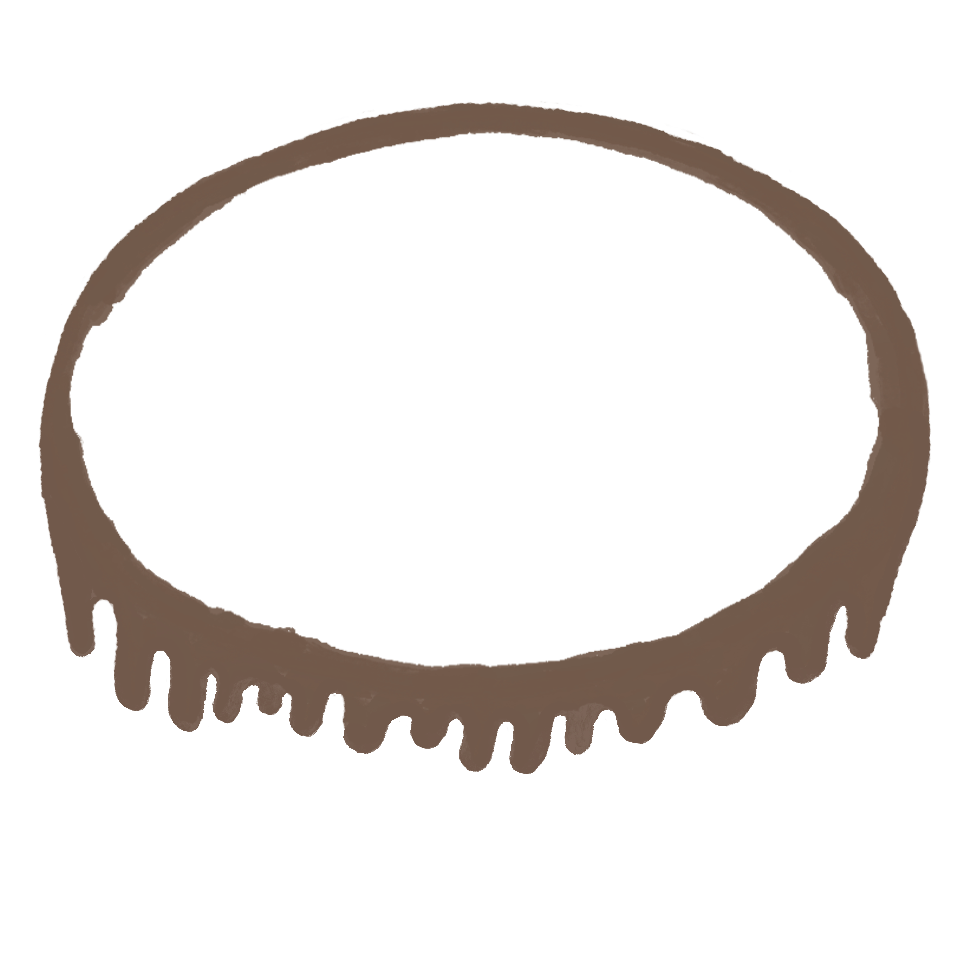
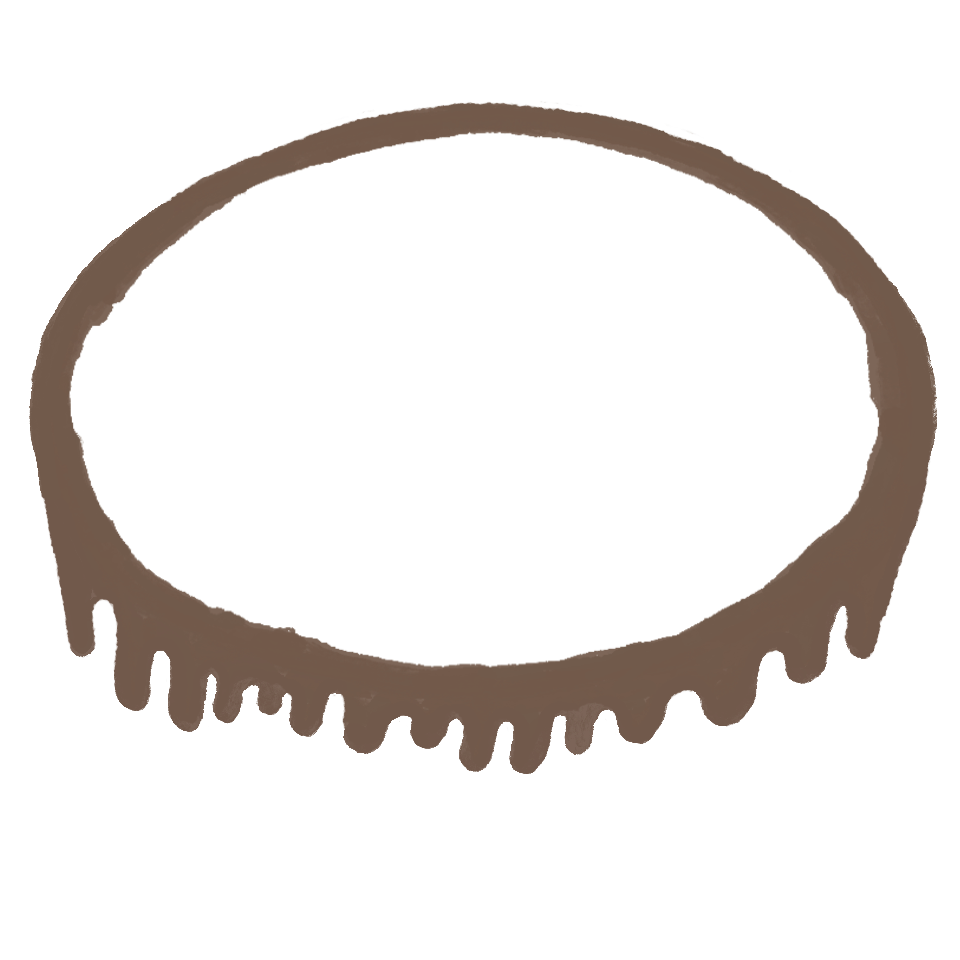
18cm訂正版素材を反映

diff --git a/help/start.html b/help/start.html
@@ -22,7 +22,7 @@
 <li>同意のチェックを入れます。</li>
 <li>**「カード登録なしで始める」**を押します。</li>
 </ol>
-<figure><a href="img/signup.png?v=1789966209dcb479" target="_blank" rel="noopener" aria-label="新規登録：お店の情報を入力する画面を拡大"><img src="img/signup.png?v=1789966209dcb479" alt="新規登録：お店の情報を入力する画面" loading="lazy" width="780" height="1688"></a><figcaption>新規登録：お店の情報を入力する画面 · タップで拡大</figcaption></figure>
+<figure><a href="img/signup.png?v=1789973165dcb479" target="_blank" rel="noopener" aria-label="新規登録：お店の情報を入力する画面を拡大"><img src="img/signup.png?v=1789973165dcb479" alt="新規登録：お店の情報を入力する画面" loading="lazy" width="780" height="1688"></a><figcaption>新規登録：お店の情報を入力する画面 · タップで拡大</figcaption></figure>
 <p>💡 店舗IDは予約ページのアドレスの一部です。後から管理画面で変更する機能はありません。</p>
 <h2 id="section-2">2. カード不要のお試しを始める<a class="anchor" href="#section-2" aria-label="この項目へのリンク">#</a></h2>
 <p>登録が完了すると管理画面へ進み、7日間のお試しが始まります。確認メールが届いた場合は、そのリンクから続けてください。</p>
@@ -30,7 +30,7 @@
 <h2 id="section-3">3. 管理画面の開き方を覚える<a class="anchor" href="#section-3" aria-label="この項目へのリンク">#</a></h2>
 <p><a href="../admin/">管理画面</a>をブックマークしておきます。次回からはメールアドレスとパスワードでログインします。</p>
 <p>スマホでメニューが見えない場合は、右上の **「☰」**を押します。</p>
-<figure><a href="img/menu.png?v=1789966209b3192b9032" target="_blank" rel="noopener" aria-label="スマホの管理メニュー：設定・商品・マニュアルへ進めますを拡大"><img src="img/menu.png?v=1789966209b3192b9032" alt="スマホの管理メニュー：設定・商品・マニュアルへ進めます" loading="lazy" width="780" height="1688"></a><figcaption>スマホの管理メニュー：設定・商品・マニュアルへ進めます · タップで拡大</figcaption></figure>
+<figure><a href="img/menu.png?v=1789973165b3192b9032" target="_blank" rel="noopener" aria-label="スマホの管理メニュー：設定・商品・マニュアルへ進めますを拡大"><img src="img/menu.png?v=1789973165b3192b9032" alt="スマホの管理メニュー：設定・商品・マニュアルへ進めます" loading="lazy" width="780" height="1688"></a><figcaption>スマホの管理メニュー：設定・商品・マニュアルへ進めます · タップで拡大</figcaption></figure>
 <h2 id="section-4">4. 予約を受けるルールを設定する<a class="anchor" href="#section-4" aria-label="この項目へのリンク">#</a></h2>
 <ol>
 <li>メニューの **「設定」**を開きます。</li>
@@ -48,7 +48,7 @@
 <li>「1時間ごと」など、時間の間隔を選びます。</li>
 <li>**「まとめて追加」**を押します。</li>
 </ol>
-<figure><a href="img/slots.png?v=1789966209f0519151" target="_blank" rel="noopener" aria-label="受取時間：時間の範囲を決めて枠を追加するを拡大"><img src="img/slots.png?v=1789966209f0519151" alt="受取時間：時間の範囲を決めて枠を追加する" loading="lazy" width="780" height="1688"></a><figcaption>受取時間：時間の範囲を決めて枠を追加する · タップで拡大</figcaption></figure>
+<figure><a href="img/slots.png?v=1789973165f0519151" target="_blank" rel="noopener" aria-label="受取時間：時間の範囲を決めて枠を追加するを拡大"><img src="img/slots.png?v=1789973165f0519151" alt="受取時間：時間の範囲を決めて枠を追加する" loading="lazy" width="780" height="1688"></a><figcaption>受取時間：時間の範囲を決めて枠を追加する · タップで拡大</figcaption></figure>
 <ol start="12">
 <li>**「お客様への案内とセルフ操作」**に、お店のキャンセルポリシーと特定商取引法に基づく表記を入れます。</li>
 <li>お客様ご自身での変更・キャンセルを使う場合は **「有効にする」**にチェックを入れます。</li>

diff --git a/help/products.html b/help/products.html
@@ -50,7 +50,7 @@
 <li><strong>この商品だけ受け付けない日</strong>：この商品だけ特定の日を休みたいときに日付を追加します。</li>
 </ul>
 <p>💡 定休日にクリスマス営業をしたい（12/24が定休日でも受け取れるようにしたい）場合は、設定ページの「臨時休業・臨時営業」で <strong>「定休日だけど営業」</strong> の日を登録してください（お店全体に効きます）。</p>
-<figure><a href="img/season.png?v=1789966209a0369fcec46" target="_blank" rel="noopener" aria-label="季節商品：受付期間と受取期間を分けて設定しますを拡大"><img src="img/season.png?v=1789966209a0369fcec46" alt="季節商品：受付期間と受取期間を分けて設定します" loading="lazy" width="780" height="1688"></a><figcaption>季節商品：受付期間と受取期間を分けて設定します · タップで拡大</figcaption></figure>
+<figure><a href="img/season.png?v=1789973165a0369fcec46" target="_blank" rel="noopener" aria-label="季節商品：受付期間と受取期間を分けて設定しますを拡大"><img src="img/season.png?v=1789973165a0369fcec46" alt="季節商品：受付期間と受取期間を分けて設定します" loading="lazy" width="780" height="1688"></a><figcaption>季節商品：受付期間と受取期間を分けて設定します · タップで拡大</figcaption></figure>
 <h2 id="section-5">サイズと価格<a class="anchor" href="#section-5" aria-label="この項目へのリンク">#</a></h2>
 <ol>
 <li>サイズ名（例：12cm、4号）と価格（税込）を入れて <strong>「追加」</strong> を押します。</li>
@@ -110,7 +110,7 @@
 <li>必要なら <strong>「必須にする」</strong> にチェックを入れます。</li>
 <li>補足（質問の下に小さく出る一言）は任意です。</li>
 </ol>
-<figure><a href="img/questions.png?v=1789966209e2362629e" target="_blank" rel="noopener" aria-label="共通の質問：質問文と回答のしかたを設定しますを拡大"><img src="img/questions.png?v=1789966209e2362629e" alt="共通の質問：質問文と回答のしかたを設定します" loading="lazy" width="780" height="1688"></a><figcaption>共通の質問：質問文と回答のしかたを設定します · タップで拡大</figcaption></figure>
+<figure><a href="img/questions.png?v=1789973165e2362629e" target="_blank" rel="noopener" aria-label="共通の質問：質問文と回答のしかたを設定しますを拡大"><img src="img/questions.png?v=1789973165e2362629e" alt="共通の質問：質問文と回答のしかたを設定します" loading="lazy" width="780" height="1688"></a><figcaption>共通の質問：質問文と回答のしかたを設定します · タップで拡大</figcaption></figure>
 <h3>見本の画像</h3>
 <p>質問の下に<strong>見本の画像を1枚</strong>出せます（任意）。**「見本の画像」→「写真を選ぶ」**でアップするだけです。</p>
 <ul>

diff --git a/help/faq.html b/help/faq.html
@@ -66,7 +66,7 @@
 <li>メールアプリ側で送信します。</li>
 </ol>
 <p><strong>「依頼内容を確認する」を押しただけでは送信されません。</strong> メールアプリが開かない場合は「本文をコピー」でコピーし、<a href="mailto:info@oyatsupokke.com">info@oyatsupokke.com</a>へ送信してください。ログインできない場合も、このアドレスからお問い合わせできます。</p>
-<figure><a href="img/support.png?v=1789966209c02707868" target="_blank" rel="noopener" aria-label="サポート：通常のお問い合わせ・不具合報告を選ぶを拡大"><img src="img/support.png?v=1789966209c02707868" alt="サポート：通常のお問い合わせ・不具合報告を選ぶ" loading="lazy" width="780" height="1688"></a><figcaption>サポート：通常のお問い合わせ・不具合報告を選ぶ · タップで拡大</figcaption></figure>
+<figure><a href="img/support.png?v=1789973165c02707868" target="_blank" rel="noopener" aria-label="サポート：通常のお問い合わせ・不具合報告を選ぶを拡大"><img src="img/support.png?v=1789973165c02707868" alt="サポート：通常のお問い合わせ・不具合報告を選ぶ" loading="lazy" width="780" height="1688"></a><figcaption>サポート：通常のお問い合わせ・不具合報告を選ぶ · タップで拡大</figcaption></figure>
 <p>画面写真を添える場合は、パスワードやお客様の名前・連絡先を隠してください。通常のお問い合わせの送信に料金はかかりません。有料の設定サポート・代行とは別に選べます。</p>
 </article><footer class="article-footer"><a href="index.html">目次へ戻る</a><a href="faq.html">困ったとき</a><a href="#content">ページの上へ ↑</a></footer></main>
 <aside class="on-this-page"><p>このページの内容</p><nav aria-label="このページの内容"><a href="#section-1">予約ページについて</a><a href="#section-2">メールについて</a><a href="#section-3">予約の操作について</a><a href="#section-4">ログインについて</a><a href="#section-5">印刷について</a><a href="#section-6">料金・解約について</a><a href="#section-7">解決しないとき</a></nav></aside></div><footer class="site-footer">画面写真はサンプル店舗の操作例です。<br><a href="../admin/index.html?tab=support">お問い合わせ</a> · <a href="../terms.html">利用規約</a> · <a href="../privacy.html">プライバシーポリシー</a></footer></body></html>

diff --git a/app.js b/app.js
@@ -619,6 +619,7 @@ const HERB_TOPPING_NAMES = new Set([
   "ハーブ、エディブルフラワー1周", "ハーブ、エディブルフラワートッピング",
 ]);
 const cakeLayerAsset = (name) => new URL(`assets/cake-layers/${name}`, location.href).href;
+const corrected18cmLayerAsset = (name) => cakeLayerAsset(`${name}?v=20260921-corrected`);
 // oyatsupokkeの12cmデコレーションは、15cmと同じ素材を縮小するのではなく、
 // 実物の比率で描かれた専用素材へ差し替える。素材URLがStorage配信でも
 // ファイル名で解決できるようにし、DB側の設定は15cm・18cmと共用する。
@@ -673,15 +674,27 @@ function sizeSpecificLayerUrl(url, role = "option") {
     const files=OYATSU_CHOCOLATE_LAYER_FILES_BY_SIZE[size];
     if(!files)return url;
     if(role === "base" && ["12cm","18cm"].includes(size))
-      return cakeLayerAsset(`chocolate/${size}/chocolate-base.png`);
+      return size === "18cm"
+        ? corrected18cmLayerAsset("chocolate/18cm/chocolate-base.png")
+        : cakeLayerAsset("chocolate/12cm/chocolate-base.png");
     const file=files[layerFileName(url)];
-    return file ? cakeLayerAsset(file) : url;
+    return file
+      ? (size === "18cm" && layerFileName(url) === "naked-chocolate.png"
+          ? corrected18cmLayerAsset(file)
+          : cakeLayerAsset(file))
+      : url;
   }
   if (state.sel.product?.name !== "デコレーションケーキ"
       || !OYATSU_DECORATION_LAYER_FILES_BY_SIZE[size]) return url;
-  if (role === "base") return cakeLayerAsset(`${size}/decoration-base.png`);
+  if (role === "base") return size === "18cm"
+    ? corrected18cmLayerAsset("18cm/decoration-base.png")
+    : cakeLayerAsset(`${size}/decoration-base.png`);
   const file = OYATSU_DECORATION_LAYER_FILES_BY_SIZE[size][layerFileName(url)];
-  return file ? cakeLayerAsset(file) : url;
+  return file
+    ? (size === "18cm" && ["naked-decoration.png", "chocolate-drip.png", "strawberry-drip.png"].includes(layerFileName(url))
+        ? corrected18cmLayerAsset(file)
+        : cakeLayerAsset(file))
+    : url;
 }
 // oyatsupokkeのタルト・バスクは、商品土台とは別に通常の果物レイヤーが常に付く。
 // 他店舗の商品名が同じでも混ざらないよう、店舗キーpokkeだけに限定する。

diff --git a/help/customer.html b/help/customer.html
@@ -17,7 +17,7 @@
 <li><strong>お客様情報</strong> — 名前・フリガナ・電話・メール（ご住所を「表示する」にしているお店では、郵便番号を入れると住所が自動で入ります）</li>
 </ol>
 <p>最後に <strong>「入力内容を確認する」</strong> → 確認画面（キャンセルポリシーもここに表示）→ <strong>「この内容で注文する」</strong> で予約完了です。</p>
-<figure><a href="img/form.png?v=1789966209e01ca6ca1c" target="_blank" rel="noopener" aria-label="お客様の予約ページを拡大"><img src="img/form.png?v=1789966209e01ca6ca1c" alt="お客様の予約ページ" loading="lazy" width="780" height="1688"></a><figcaption>お客様の予約ページ · タップで拡大</figcaption></figure>
+<figure><a href="img/form.png?v=1789973165e01ca6ca1c" target="_blank" rel="noopener" aria-label="お客様の予約ページを拡大"><img src="img/form.png?v=1789973165e01ca6ca1c" alt="お客様の予約ページ" loading="lazy" width="780" height="1688"></a><figcaption>お客様の予約ページ · タップで拡大</figcaption></figure>
 <p>💡 入力の途中でページを閉じても、同じ端末・同じSafariやChromeでは、保存された入力内容から再開できます。添付画像は再選択が必要になる場合があります。共有端末では他の人の入力内容が残っていないか確認してください。</p>
 <h2 id="section-2">確認メール<a class="anchor" href="#section-2" aria-label="この項目へのリンク">#</a></h2>
 <p>予約が完了すると、お客様に自動で確認メールが届きます。</p>

diff --git a/help/overview.html b/help/overview.html
@@ -8,7 +8,7 @@
 <ol>
 <li>ケーキを選ぶ → 2. サイズを選ぶ → 3. カスタマイズ（フルーツなど） → 4. 受取日を選ぶ → 5. ご記入欄 → 6. お客様情報 → 内容の確認 → 注文</li>
 </ol>
-<figure><a href="img/form.png?v=1789966209e01ca6ca1c" target="_blank" rel="noopener" aria-label="お客様の予約ページ：商品・サイズを選びますを拡大"><img src="img/form.png?v=1789966209e01ca6ca1c" alt="お客様の予約ページ：商品・サイズを選びます" loading="lazy" width="780" height="1688"></a><figcaption>お客様の予約ページ：商品・サイズを選びます · タップで拡大</figcaption></figure>
+<figure><a href="img/form.png?v=1789973165e01ca6ca1c" target="_blank" rel="noopener" aria-label="お客様の予約ページ：商品・サイズを選びますを拡大"><img src="img/form.png?v=1789973165e01ca6ca1c" alt="お客様の予約ページ：商品・サイズを選びます" loading="lazy" width="780" height="1688"></a><figcaption>お客様の予約ページ：商品・サイズを選びます · タップで拡大</figcaption></figure>
 <ul>
 <li>受取日のカレンダーでは、<strong>予約できる日だけ</strong>を選べます（定休日・締切を過ぎた日・満枠の日は自動で選べなくなります）</li>
 <li>注文するとお客様に<strong>確認メール</strong>が自動で届きます。メールの専用リンクから、お客様がご自身で変更・キャンセルもできます（期限はお店が決められます。<a href="customer.html">第5章</a>）</li>

diff --git a/admin/index.html b/admin/index.html
@@ -4,10 +4,10 @@
 <meta charset="UTF-8">
 <meta name="viewport" content="width=device-width, initial-scale=1.0">
 <title>管理画面｜オーダーケーキ予約</title>
-<link rel="stylesheet" href="../styles.css?v=1789966209">
-<link rel="stylesheet" href="admin.css?v=1789966209">
-<link rel="stylesheet" href="admin-layout.css?v=1789966209">
-<link rel="stylesheet" href="support.css?v=1789966209">
+<link rel="stylesheet" href="../styles.css?v=1789973165">
+<link rel="stylesheet" href="admin.css?v=1789973165">
+<link rel="stylesheet" href="admin-layout.css?v=1789973165">
+<link rel="stylesheet" href="support.css?v=1789973165">
 </head>
 <body>
 <div id="app" class="admin">
@@ -457,12 +457,12 @@
 
   <div id="toast" class="toast hidden"></div>
 </div>
-<script src="tips.js?v=1789966209"></script>
-<script src="edit-drafts.js?v=1789966209"></script>
-<script src="report-core.js?v=1789966209"></script>
-<script src="line-settings.js?v=1789966209"></script>
-<script src="admin.js?v=1789966209"></script>
-<script src="reports.js?v=1789966209"></script>
-<script src="support.js?v=1789966209"></script>
+<script src="tips.js?v=1789973165"></script>
+<script src="edit-drafts.js?v=1789973165"></script>
+<script src="report-core.js?v=1789973165"></script>
+<script src="line-settings.js?v=1789973165"></script>
+<script src="admin.js?v=1789973165"></script>
+<script src="reports.js?v=1789973165"></script>
+<script src="support.js?v=1789973165"></script>
 </body>
 </html>

diff --git a/help/billing.html b/help/billing.html
@@ -11,7 +11,7 @@
 <li>契約状況と無料期間の終了日を確認します。</li>
 <li>カード変更や解約をする場合は **「お支払い管理をひらく」**を押します。Stripeのお支払い管理ページが開きます。</li>
 </ol>
-<figure><a href="img/billing.png?v=1789966209b666af21f00" target="_blank" rel="noopener" aria-label="ご契約・お支払い：契約状況と管理ページへの入口を拡大"><img src="img/billing.png?v=1789966209b666af21f00" alt="ご契約・お支払い：契約状況と管理ページへの入口" loading="lazy" width="780" height="1688"></a><figcaption>ご契約・お支払い：契約状況と管理ページへの入口 · タップで拡大</figcaption></figure>
+<figure><a href="img/billing.png?v=1789973165b666af21f00" target="_blank" rel="noopener" aria-label="ご契約・お支払い：契約状況と管理ページへの入口を拡大"><img src="img/billing.png?v=1789973165b666af21f00" alt="ご契約・お支払い：契約状況と管理ページへの入口" loading="lazy" width="780" height="1688"></a><figcaption>ご契約・お支払い：契約状況と管理ページへの入口 · タップで拡大</figcaption></figure>
 <h2 id="section-2">料金と無料期間<a class="anchor" href="#section-2" aria-label="この項目へのリンク">#</a></h2>
 <ul>
 <li>基本利用料は **月額4,980円（税込）**です。</li>

diff --git a/admin/products.html b/admin/products.html
@@ -4,10 +4,10 @@
 <meta charset="UTF-8">
 <meta name="viewport" content="width=device-width, initial-scale=1.0">
 <title>商品の設定｜管理画面</title>
-<link rel="stylesheet" href="../styles.css?v=1789966209">
-<link rel="stylesheet" href="admin.css?v=1789966209">
-<link rel="stylesheet" href="products.css?v=1789966209">
-<link rel="stylesheet" href="admin-layout.css?v=1789966209">
+<link rel="stylesheet" href="../styles.css?v=1789973165">
+<link rel="stylesheet" href="admin.css?v=1789973165">
+<link rel="stylesheet" href="products.css?v=1789973165">
+<link rel="stylesheet" href="admin-layout.css?v=1789973165">
 </head>
 <body>
 <div id="app" class="admin products-page">
@@ -216,10 +216,10 @@
   <button id="fab" type="button">プレビュー</button>
   <div id="toast" class="toast hidden"></div>
 </div>
-<script src="tips.js?v=1789966209"></script>
-<script src="edit-drafts.js?v=1789966209"></script>
-<script src="products-menu.js?v=1789966209"></script>
-<script src="pickup-schedule.js?v=1789966209"></script>
-<script src="products.js?v=1789966209"></script>
+<script src="tips.js?v=1789973165"></script>
+<script src="edit-drafts.js?v=1789973165"></script>
+<script src="products-menu.js?v=1789973165"></script>
+<script src="pickup-schedule.js?v=1789973165"></script>
+<script src="products.js?v=1789973165"></script>
 </body>
 </html>

diff --git a/index.html b/index.html
@@ -6,8 +6,8 @@
 <title>オーダーケーキのご予約</title>
 <link rel="preconnect" href="https://fonts.googleapis.com">
 <link rel="stylesheet" href="https://fonts.googleapis.com/css2?family=Zen+Kaku+Gothic+New:wght@400;500;700&family=Zen+Maru+Gothic:wght@500;700&family=Shippori+Mincho:wght@500;700&display=swap">
-<link rel="stylesheet" href="styles.css?v=1789966209">
-<link rel="stylesheet" href="form-layout.css?v=1789966209">
+<link rel="stylesheet" href="styles.css?v=1789973165">
+<link rel="stylesheet" href="form-layout.css?v=1789973165">
 </head>
 <body>
 <div id="app">
@@ -153,10 +153,10 @@
   <div id="toast" class="toast hidden"></div>
 
 </div>
-<script src="safe-display.js?v=1789966209"></script>
-<script src="booking-retry.js?v=1789966209"></script>
-<script src="booking-window.js?v=1789966209"></script>
-  <script src="app.js?v=1789966209"></script>
-<script src="form-layout.js?v=1789966209"></script>
+<script src="safe-display.js?v=1789973165"></script>
+<script src="booking-retry.js?v=1789973165"></script>
+<script src="booking-window.js?v=1789973165"></script>
+  <script src="app.js?v=1789973165"></script>
+<script src="form-layout.js?v=1789973165"></script>
 </body>
 </html>

diff --git a/help/settings.html b/help/settings.html
@@ -54,7 +54,7 @@
 <li>枠ごとに<strong>上限台数</strong>を入れられます。空欄の枠は台数無制限です。
 例）12時台はお店が混むので2台まで</li>
 </ul>
-<figure><a href="img/slots.png?v=1789966209f0519151" target="_blank" rel="noopener" aria-label="受取時間の設定を拡大"><img src="img/slots.png?v=1789966209f0519151" alt="受取時間の設定" loading="lazy" width="780" height="1688"></a><figcaption>受取時間の設定 · タップで拡大</figcaption></figure>
+<figure><a href="img/slots.png?v=1789973165f0519151" target="_blank" rel="noopener" aria-label="受取時間の設定を拡大"><img src="img/slots.png?v=1789973165f0519151" alt="受取時間の設定" loading="lazy" width="780" height="1688"></a><figcaption>受取時間の設定 · タップで拡大</figcaption></figure>
 <h2 id="section-6">臨時休業・臨時営業<a class="anchor" href="#section-6" aria-label="この項目へのリンク">#</a></h2>
 <ul>
 <li><strong>臨時休業</strong>：営業日だけれど予約を受けない日。日付を選んで追加します。</li>

diff --git a/manage.html b/manage.html
@@ -5,7 +5,7 @@
 <meta name="viewport" content="width=device-width, initial-scale=1.0">
 <meta name="robots" content="noindex">
 <title>ご予約の確認・変更・キャンセル</title>
-<link rel="stylesheet" href="styles.css?v=1789966209">
+<link rel="stylesheet" href="styles.css?v=1789973165">
 <style>
   /* このページ専用の少しだけの追加スタイル */
   .status-chip { display: inline-block; padding: 2px 10px; border-radius: 999px; font-size: 12px; font-weight: 600; background: #f2e8dc; color: #7a5c3d; vertical-align: middle; margin-left: 8px; }
@@ -108,8 +108,8 @@
 
   <div id="toast" class="toast hidden"></div>
 </div>
-<script src="safe-display.js?v=1789966209"></script>
-<script src="booking-window.js?v=1789966209"></script>
-  <script src="manage.js?v=1789966209"></script>
+<script src="safe-display.js?v=1789973165"></script>
+<script src="booking-window.js?v=1789973165"></script>
+  <script src="manage.js?v=1789973165"></script>
 </body>
 </html>
